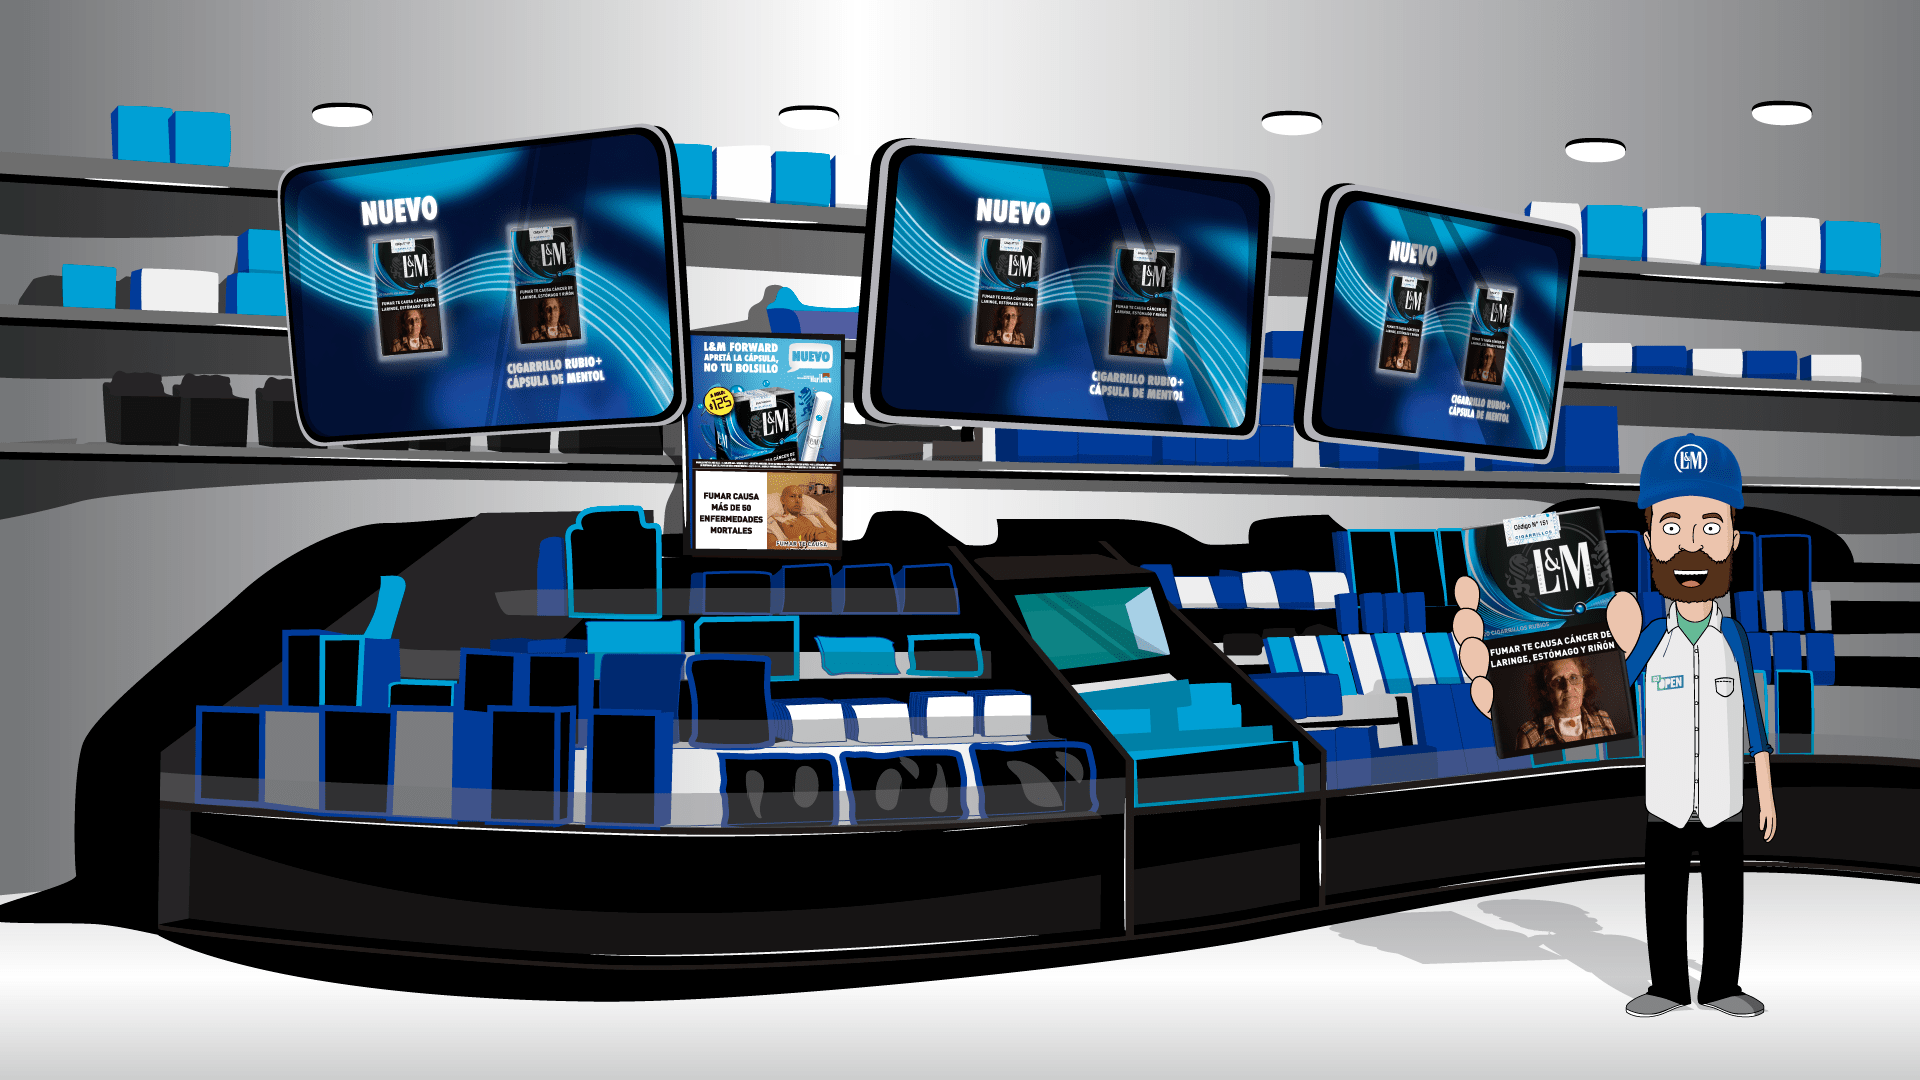
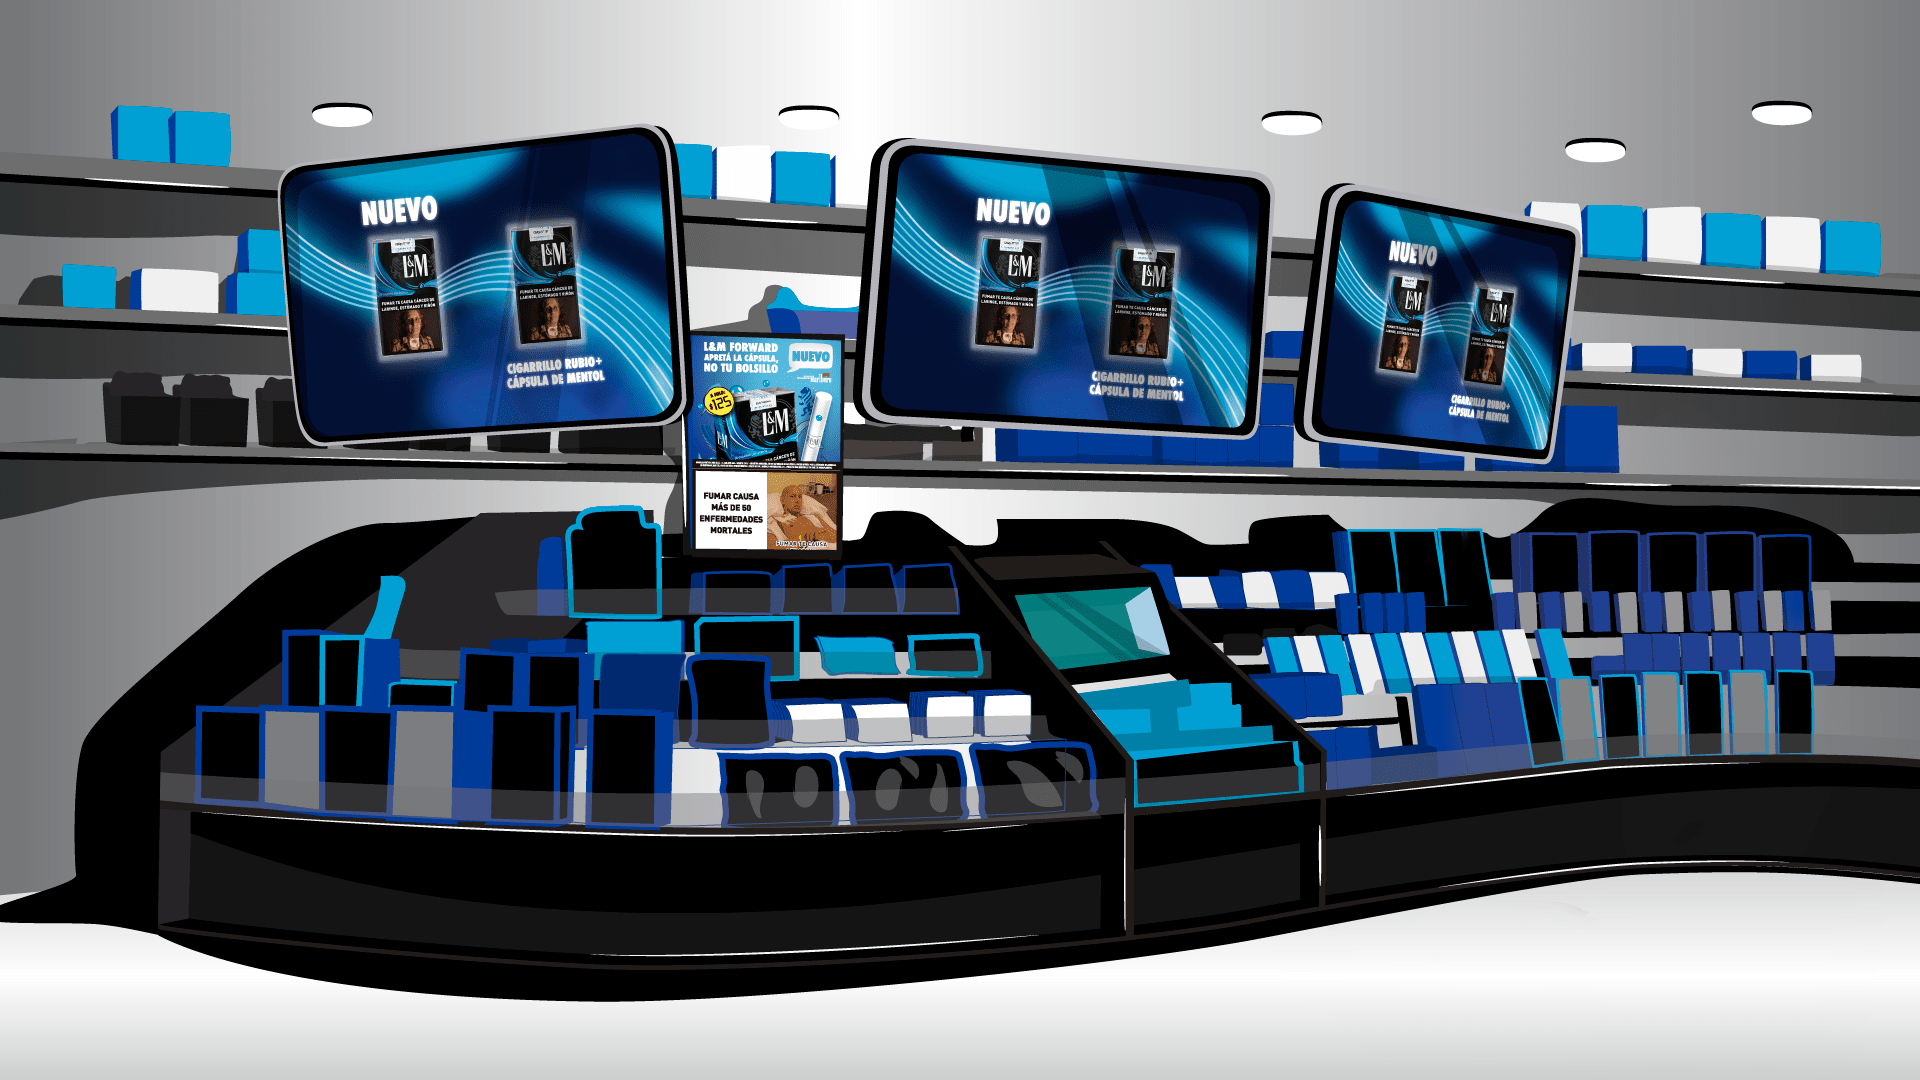
MrOpen dinamico + efecto particulas
MrOpen ya no es parte del bkg y tiene text bubbles + efecto de particulas en las capsulas

Changed region(s): [[0.75, 0.3972, 0.9688, 0.7639], [0.6875, 0.7944, 0.9375, 0.9472]]

diff --git a/kiosko.html b/kiosko.html
@@ -7,18 +7,35 @@
     <script src="https://ajax.googleapis.com/ajax/libs/jquery/3.5.1/jquery.min.js"></script>
     <link rel="stylesheet" href="styles/kiosko.css">
     <link rel="stylesheet" href="styles/spinner.css">
+    <link rel="stylesheet" href="styles/capsule_emmiter.css">
     <link rel="icon" href="images/favicon.png">
 </head>
 <body>
-
-    <audio id="line_4" src="audio/line_4.mp3"></audio>
-
     <div id="CARGANDO" class="lds-ring"><div></div><div></div><div></div><div></div></div>
     
     <div class="kiosko noDisplay">
 
+        <div class="mr_open_container">            
+            <img class="mr_open noDrag" src="images/mr_open_kiosko.png" alt="">
+
+            <!-- QUITAR class="noDisplay" A LOS <img> PARA MOSTRAR EL TEXTO QUE CORRESPONDE -->
+            <!-- ACTUALMENTE SOLO EL TEXTO 1 SE ESTÁ MOSTRANDO. AGREGAR class="noDisplay" CUANDO SE PASE A OTRO TEXTO -->
+
+            <!-- texto 1/5 -->
+            <img class="mr_open_text noDrag " src="images/kiosko_text_1.png" alt='Comenzá tu aventura apretando la cápsula de "Nuevo L&M Forward"'>
+            <!-- texto 2/5 -->
+            <img class="mr_open_text noDrag noDisplay" src="images/kiosko_text_2.png" alt='Continua tu aventura apretando la cápsula de "A quién ofrecerlo"'>
+            <!-- texto 3/5 -->
+            <img class="mr_open_text noDrag noDisplay" src="images/kiosko_text_3.png" alt='Continua tu aventura apretando la cápsula de "Familia L&M"'>
+            <!-- texto 4/5 -->
+            <img class="mr_open_text noDrag noDisplay" src="images/kiosko_text_4.png" alt='Continua tu aventura apretando la cápsula de "Herramientas"'>
+            <!-- texto 5/5 -->
+            <img class="mr_open_text noDrag noDisplay" src="images/kiosko_text_5.png" alt='Finaliza tu aventura apretando la cápsula de "Firmá el compromiso"'>
+        </div>
+
         <!-- AGREGAR class="active" A LOS <img> Y <p> (HIJOS DEL <div class="capsule_x_container capsule">) PARA DEFINIR LA CAPSULA POR LA QUE DEBE CONTINUAR -->
         <!-- ACTUALMENTE SOLO LA CAPSULA 1 ESTÁ ACTIVA. QUITAR class="active" CUANDO SE PASE A OTRA CAPSULA -->
+        <!-- LOS TEXTOS Y LAS CAPSULAS DEBEN ESTAR SINCRONIZADAS (text_1 con capsule_1, text_2 con capsule_2, etc...) -->
 
         <!-- capsula 1/5 -->
         <div class="capsule_1_container capsule">
@@ -57,7 +74,13 @@
         }
         preload(
             "images/bkg_kiosko.png",
-            "images/capsule.png"
+            "images/capsule.png",
+            "images/mr_open_kiosko.png",
+            "images/kiosko_text_1.png",
+            "images/kiosko_text_2.png",
+            "images/kiosko_text_3.png",
+            "images/kiosko_text_4.png",
+            "images/kiosko_text_5.png"
         )
 
         window.addEventListener('load', function () {
@@ -65,11 +88,10 @@
             document.getElementById('CARGANDO').classList.add('noDisplay')
             const body = document.getElementsByClassName('kiosko')[0];
             body.classList.remove('noDisplay');
+            start();
         })
     </script>
-
-    <script src="scripts/audio_kiosko.js"></script>
-    <script src="scripts/capsulas_href.js"></script>
+    <script src="scripts/kiosko.js"></script>
 
 </body>
 </html>

diff --git a/scripts/kiosko.js b/scripts/kiosko.js
@@ -1,0 +1,51 @@
+function start() {
+
+    // setear links
+    for (let i = 1; i <= 5; i++) {
+        document.getElementsByClassName(`capsule_${i}`)[0].addEventListener('click', function() {
+            window.location.href = (`capsula_${i}.html`);
+        })
+    }
+
+
+    // emmiter effect
+    function bubbleWidth() {
+        return 20*(window.innerWidth/1920) + Math.floor((30*(window.innerWidth/1920) - 20*(window.innerWidth/1920)) * Math.random());
+    }
+    function bubblePosition() {
+        return Math.random() * 40 + "px"
+    }
+    const capsule = document.getElementsByClassName('capsule');
+    for (let i = 0; i < capsule.length; i++) {
+        if (capsule[i].children[0].classList.contains('active')) {
+            var active_capsule = `.capsule_${i+1}_container`
+            
+        }
+    }
+    function createBubble() {
+        const item = document.querySelector(active_capsule)
+        const bubble = document.createElement('img')
+    
+        // assign image
+        bubble.src = 'images/bubble.png';
+        bubble.classList.add('noDrag')
+        
+        // create bubble
+        bubble.classList.add('bubbles')
+        bubble.width = bubbleWidth();
+        
+        // set bubble position
+        bubble.style.right = bubblePosition();
+    
+        // add bubble to document
+        item.appendChild(bubble)
+    
+        // remove bubble
+        setTimeout(() => {
+            bubble.remove()
+        }, 2000);
+    }
+
+    // repetidor de bubbles
+    setInterval(createBubble, 133)
+}

diff --git a/styles/kiosko.css b/styles/kiosko.css
@@ -186,6 +186,27 @@ body, html {
 }
 
 
+.mr_open_container {
+    position: absolute;
+    right: 0;
+    bottom: 0;
+    /* flex */
+    display: flex;
+    justify-content: center;
+}
+.mr_open {
+    position: relative;
+    width: 45vh;
+    margin-bottom: 5vh;
+}
+.mr_open_text {
+    position: relative;
+    width: 26vh;
+    margin-left: -3vh;
+    margin-right: 1vh;
+    /* flex */
+    align-self: flex-start;
+}
 
 
 

diff --git a/styles/capsule_emmiter.css b/styles/capsule_emmiter.css
@@ -1,0 +1,17 @@
+.bubbles {
+    position: absolute;
+    top: 3vh;
+    margin-right: 0.5vh;
+    z-index: 1;
+    animation: animate 2s ease-in infinite;
+}
+@keyframes animate {
+    0% {
+        transform: translateY(0vh) scale(1);
+        opacity: 1;
+    }
+    100% {
+        transform: translateY(25vh) scale(0.6);
+        opacity: 0.1;
+    }
+}
